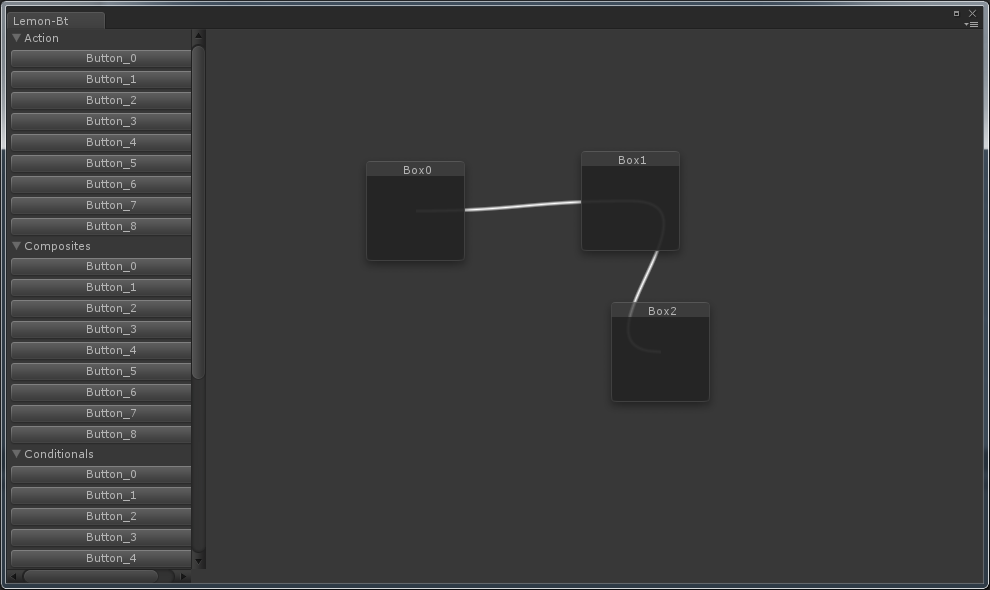
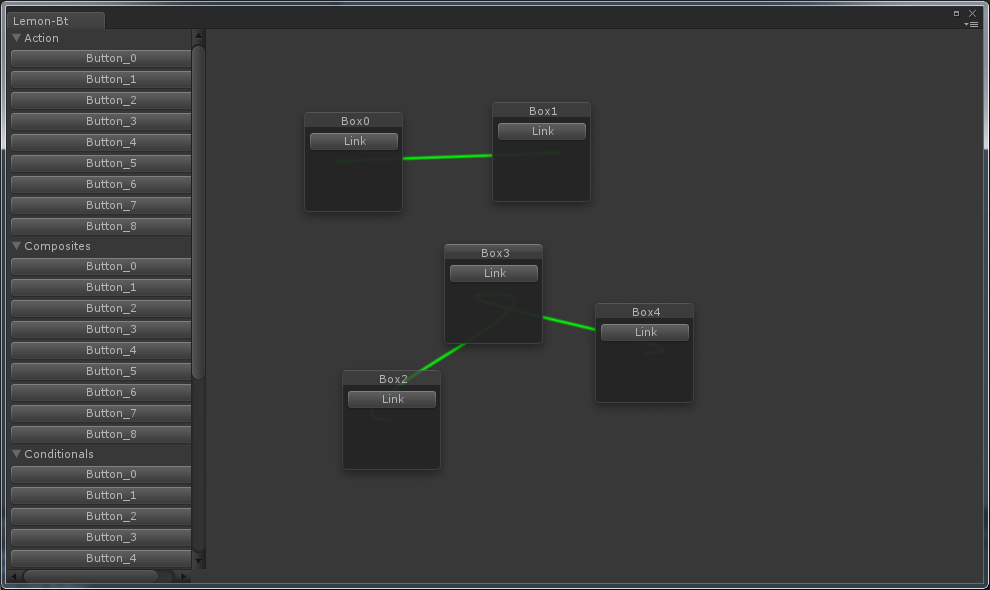
fix line bug

diff --git a/lemon-bt-unity/Assets/Editor/Lemon-Bt/IDE/Bt_IDE.cs b/lemon-bt-unity/Assets/Editor/Lemon-Bt/IDE/Bt_IDE.cs
@@ -94,7 +94,6 @@ public class Bt_IDE : EditorWindow
       
         }
         EndWindows();
-
     }
 
     void LoadAllLine()
@@ -104,11 +103,6 @@ public class Bt_IDE : EditorWindow
             return;
         }
         Handles.BeginGUI();
-        //for(int i=0;i<RecList.Count-1;++i)
-        //{
-        //    DrawOneLine(RecList[i], RecList[i+1]);
-        //}       
-
         for (int i = 0; i < mRectLines.Count; ++i)
         {
             int selfIndex = mRectLines[i].self;
@@ -123,7 +117,7 @@ public class Bt_IDE : EditorWindow
 
     void DrawOneLine(Rect rec1,Rect rec2)
     {
-        Color color = Color.white;
+        Color color = Color.green;
         Handles.DrawBezier(rec1.center, rec2.center,
            new Vector2(rec1.xMax + 50f, rec1.center.y),
            new Vector2(rec2.xMin - 50f, rec2.center.y),
@@ -223,21 +217,6 @@ public class Bt_IDE : EditorWindow
         }
     }
 
-
-    //void CheckBoxClicked()
-    //{
-    //    for (int i = 0; i < RecList.Count;++i )
-    //    {
-    //        if(RecList[i].Contains(mEvent.mousePosition))
-    //        {
-    //            mClickRect = RecList[i];
-             
-    //            Debug.Log("~~~~~~~~~~~~~~~~~~~");
-    //            break;
-    //        }
-    //    }
-    //}
-
     void DrawMoveableLine()
     {
         for(int i = 0;i<RecList.Count;++i)
@@ -249,20 +228,11 @@ public class Bt_IDE : EditorWindow
                 _node.self = i;
                 _node.other = parentWinID;
                 mRectLines.Add(_node);
-                //DrawOneLine(RecList[i], RecList[parentWinID]);
+                parentWinID = -1;
                 Debug.Log("~~~~~~~~~~~~~~~~~~~");
                 break;
             }           
         }
-        //mEvent.mousePosition
-        //if (mClickRect!=null)
-        //{
-        //    Handles.BeginGUI();
-        //    Rect mouseRect = new Rect(mEvent.mousePosition.x, mEvent.mousePosition.y, 100, 100);
-        //    DrawOneLine(mClickRect, mouseRect);
-        //    Handles.EndGUI();
-        //}
-     
     }
 }
 
